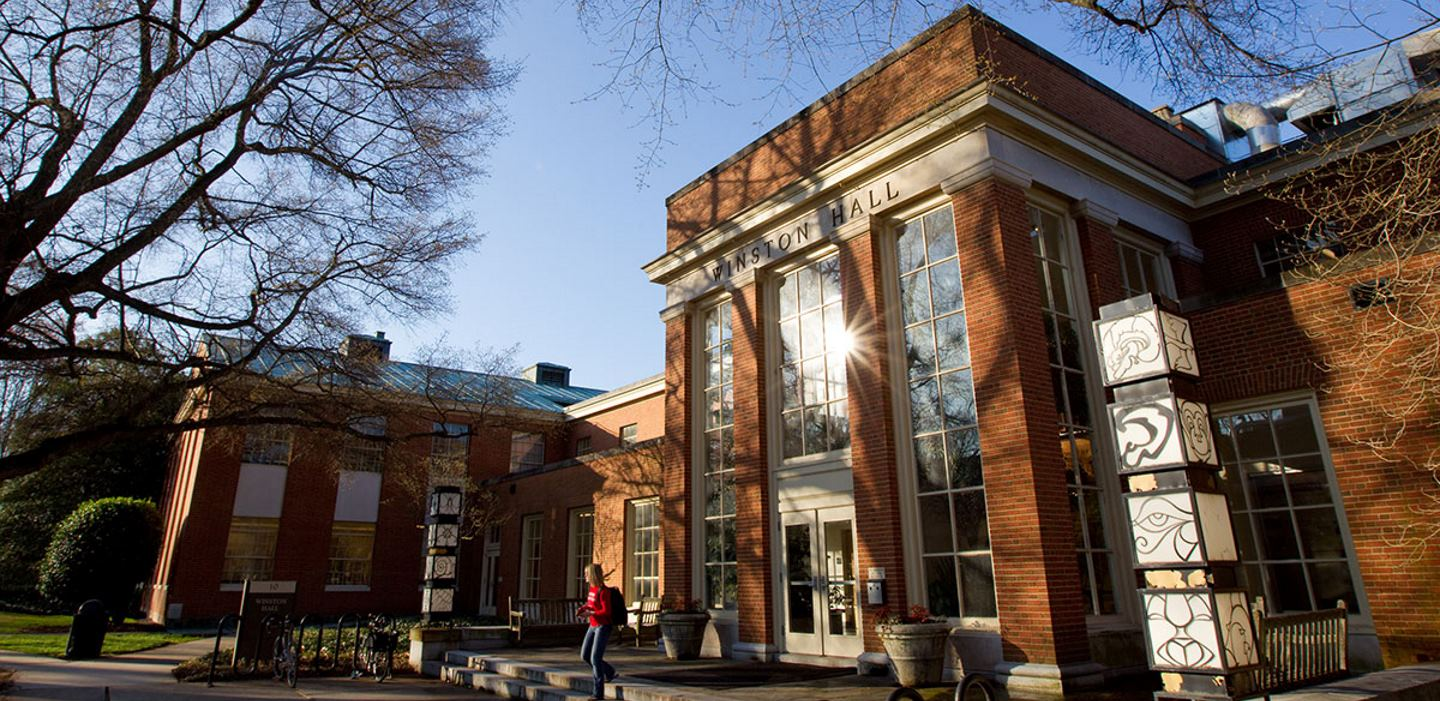
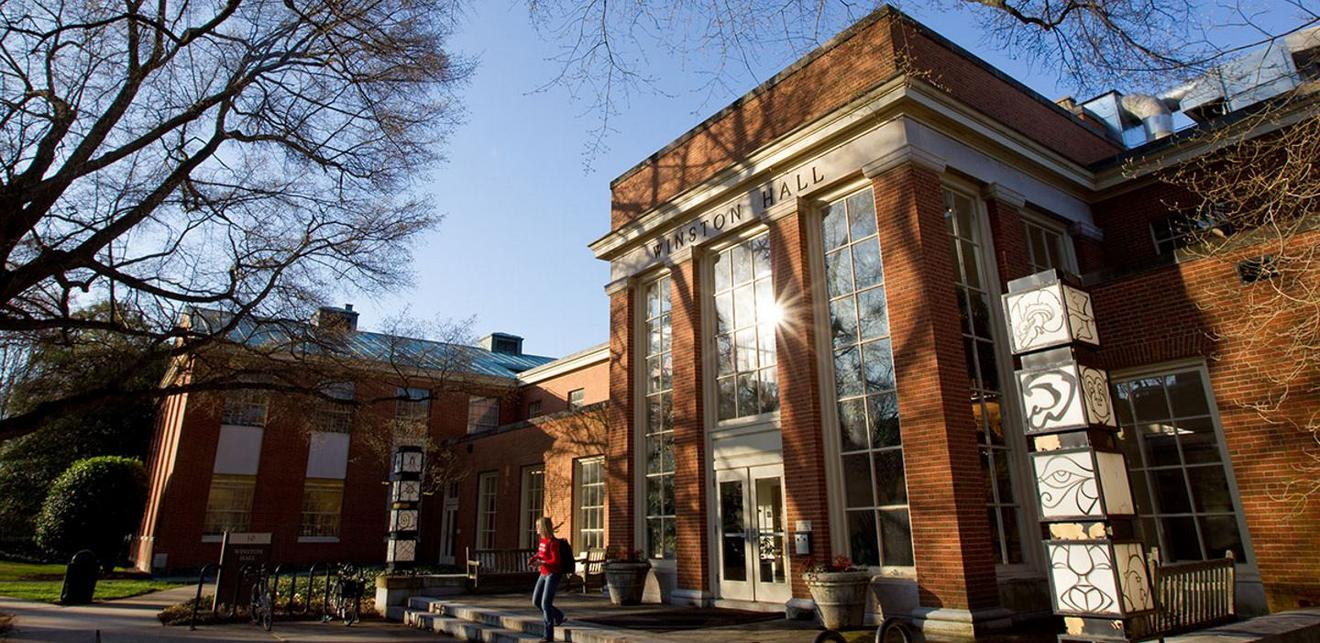
Hub pages: auto TOC, multi-column link lists, lead intro (Phase 3, part 2)
- Generate an 'On this page' table of contents for long/hub pages (>= 5 h2
  sections, or front-matter toc: true/false to override). Headings get unique
  slug ids with scroll-margin so anchor jumps clear the sticky nav.
- Flow flat link lists (>= 4 items, mostly links, no nesting) into responsive
  columns, cutting the height of dense reference pages like the math hub.
- Style the intro paragraph of these pages as a lead.
- Recompress winston_hall_slider.jpg (241 KB -> 185 KB).

Claude-Session: https://claude.ai/code/session_01C8mSpxEjqPfCiLpYRYL2Ma

Changed region(s): [[0.0, 0.1555, 0.0311, 0.2177], [0.0311, 0.1244, 0.0621, 0.1555]]

diff --git a/assets/styles.css b/assets/styles.css
@@ -609,6 +609,64 @@ blockquote p + p {
 	:root:not([data-theme="light"]) .callout-warning { --callout-accent: #d8ab54; }
 }
 
+/* "On this page" table of contents (long/hub pages) */
+h2[id], h3[id] {
+	scroll-margin-top: 84px;
+}
+
+.page-toc {
+	margin: var(--space-6) 0;
+	padding: var(--space-4) var(--space-5);
+	background: var(--color-surface);
+	border: 1px solid var(--color-border);
+	border-radius: var(--radius);
+}
+.page-toc-title {
+	margin: 0 0 var(--space-3);
+	font-size: var(--text-sm);
+	font-weight: 700;
+	text-transform: uppercase;
+	letter-spacing: 0.06em;
+	color: var(--color-muted);
+}
+.page-toc ul {
+	margin: 0;
+	padding: 0;
+	list-style: none;
+	columns: 2;
+	column-gap: var(--space-6);
+}
+.page-toc li {
+	margin: 0 0 var(--space-1);
+	break-inside: avoid;
+}
+.page-toc a {
+	text-decoration: none;
+}
+.page-toc a:hover,
+.page-toc a:focus {
+	text-decoration: underline;
+}
+.page-toc .toc-sub {
+	padding-left: var(--space-4);
+	font-size: 0.95em;
+}
+@media (max-width: 640px) {
+	.page-toc ul { columns: 1; }
+}
+
+/* Flat link lists flow into columns to shorten dense reference pages */
+.col-list {
+	columns: 2;
+	column-gap: var(--space-6);
+}
+.col-list > li {
+	break-inside: avoid;
+}
+@media (max-width: 640px) {
+	.col-list { columns: 1; }
+}
+
 /* 7. Footer ---------------------------------------------------------------- */
 footer {
 	clear: both;

diff --git a/src/main.rs b/src/main.rs
@@ -8,6 +8,7 @@ use rusqlite::{params, Connection};
 #[derive(Debug, serde::Deserialize)]
 struct FrontMatter {
     title: Option<String>,
+    toc: Option<bool>,
 }
 
 #[derive(Debug, serde::Deserialize)]
@@ -266,6 +267,138 @@ fn render_callouts(html: &str) -> String {
     }).into_owned()
 }
 
+/// Drop HTML tags and collapse whitespace, for slugs and TOC labels.
+fn strip_tags(s: &str) -> String {
+    let mut out = String::with_capacity(s.len());
+    let mut in_tag = false;
+    for c in s.chars() {
+        match c {
+            '<' => in_tag = true,
+            '>' => in_tag = false,
+            _ if !in_tag => out.push(c),
+            _ => {}
+        }
+    }
+    out.split_whitespace().collect::<Vec<_>>().join(" ")
+}
+
+/// A URL-safe slug from heading text.
+fn slugify(s: &str) -> String {
+    let text = strip_tags(s)
+        .replace("&amp;", " ")
+        .replace("&lt;", " ")
+        .replace("&gt;", " ")
+        .replace("&quot;", " ")
+        .replace("&#39;", " ");
+    let mut slug = String::new();
+    let mut prev_dash = false;
+    for c in text.chars() {
+        if c.is_ascii_alphanumeric() {
+            slug.push(c.to_ascii_lowercase());
+            prev_dash = false;
+        } else if !slug.is_empty() && !prev_dash {
+            slug.push('-');
+            prev_dash = true;
+        }
+    }
+    slug.trim_matches('-').to_string()
+}
+
+/// Give every h2/h3 a unique id and return the ordered heading list for a TOC.
+fn add_heading_ids(html: &str) -> (String, Vec<(u8, String, String)>) {
+    let re = Regex::new(r"(?is)<h([23])>(.*?)</h[23]>").unwrap();
+    let mut out = String::with_capacity(html.len());
+    let mut last = 0;
+    let mut seen: std::collections::HashMap<String, u32> = std::collections::HashMap::new();
+    let mut headings = Vec::new();
+    for caps in re.captures_iter(html) {
+        let m = caps.get(0).unwrap();
+        let lvl: u8 = caps[1].parse().unwrap_or(2);
+        let inner = &caps[2];
+        let base = {
+            let b = slugify(inner);
+            if b.is_empty() { "section".to_string() } else { b }
+        };
+        let n = seen.entry(base.clone()).or_insert(0);
+        let slug = if *n == 0 { base.clone() } else { format!("{}-{}", base, n) };
+        *n += 1;
+        out.push_str(&html[last..m.start()]);
+        out.push_str(&format!("<h{l} id=\"{s}\">{inner}</h{l}>", l = lvl, s = slug, inner = inner));
+        last = m.end();
+        headings.push((lvl, slug, strip_tags(inner)));
+    }
+    out.push_str(&html[last..]);
+    (out, headings)
+}
+
+/// Build the "On this page" navigation from collected headings.
+fn build_toc(headings: &[(u8, String, String)]) -> String {
+    let mut s = String::from(
+        "<nav class=\"page-toc\" aria-label=\"On this page\">\n<p class=\"page-toc-title\">On this page</p>\n<ul>\n",
+    );
+    for (lvl, slug, text) in headings {
+        let cls = if *lvl == 3 { " class=\"toc-sub\"" } else { "" };
+        // `text` is stripped from already-escaped HTML, so it is safe to emit as-is.
+        s.push_str(&format!(
+            "<li{}><a href=\"#{}\">{}</a></li>\n",
+            cls, slug, text
+        ));
+    }
+    s.push_str("</ul>\n</nav>\n");
+    s
+}
+
+/// Flow flat link lists (>=4 items, mostly links, no nesting) into columns.
+fn columnize_link_lists(html: &str) -> String {
+    let mut out = String::with_capacity(html.len());
+    let mut rest = html;
+    while let Some(pos) = rest.find("<ul>") {
+        out.push_str(&rest[..pos]);
+        let after = &rest[pos..];
+        let b = after.as_bytes();
+        let mut depth = 0i32;
+        let mut idx = 0usize;
+        let mut end = None;
+        while idx < b.len() {
+            if b[idx..].starts_with(b"<ul>") {
+                depth += 1;
+                idx += 4;
+            } else if b[idx..].starts_with(b"</ul>") {
+                depth -= 1;
+                idx += 5;
+                if depth == 0 {
+                    end = Some(idx);
+                    break;
+                }
+            } else {
+                idx += 1;
+            }
+        }
+        match end {
+            Some(e) => {
+                let inner = &after[4..e - 5];
+                let li_count = inner.matches("<li>").count();
+                let link_items = inner.matches("<li><a").count();
+                let nested = inner.contains("<ul");
+                if !nested && li_count >= 4 && link_items * 2 >= li_count {
+                    out.push_str("<ul class=\"col-list\">");
+                    out.push_str(&after[4..e]);
+                } else {
+                    out.push_str(&after[..e]);
+                }
+                rest = &after[e..];
+            }
+            None => {
+                out.push_str(after);
+                rest = "";
+                break;
+            }
+        }
+    }
+    out.push_str(rest);
+    out
+}
+
 fn markdown_to_html(markdown: &str, markdown_files: &std::collections::HashSet<String>) -> String {
     // Pre-process math expressions: render them server-side with KaTeX
     let processed_markdown = preprocess_math(markdown);
@@ -276,7 +409,8 @@ fn markdown_to_html(markdown: &str, markdown_files: &std::collections::HashSet<S
     html::push_html(&mut html_output, parser);
 
     let linked = convert_internal_links(&html_output, markdown_files);
-    render_callouts(&linked)
+    let with_callouts = render_callouts(&linked);
+    columnize_link_lists(&with_callouts)
 }
 
 #[derive(Clone)]
@@ -1426,9 +1560,25 @@ fn main() -> Result<(), Box<dyn std::error::Error>> {
     // Process each markdown file
     for (full_path, relative_path, title) in &markdown_files {
         let content = fs::read_to_string(full_path)?;
-        let (_, markdown_content) = extract_frontmatter(&content);
+        let (frontmatter, markdown_content) = extract_frontmatter(&content);
         let html_content = markdown_to_html(markdown_content, &markdown_file_names);
-        
+
+        // Give headings ids, then add an "On this page" TOC to long/hub pages.
+        // Front-matter `toc:` overrides the automatic threshold (>= 5 sections).
+        let (html_content, headings) = add_heading_ids(&html_content);
+        let toc_default = headings.iter().filter(|(lvl, _, _)| *lvl == 2).count() >= 5;
+        let toc_enabled = frontmatter.and_then(|fm| fm.toc).unwrap_or(toc_default);
+        let html_content = if toc_enabled && !headings.is_empty() {
+            let toc = build_toc(&headings);
+            let with_lead = html_content.replacen("<p>", "<p class=\"lead\">", 1);
+            match with_lead.find("<h2") {
+                Some(pos) => format!("{}{}{}", &with_lead[..pos], toc, &with_lead[pos..]),
+                None => format!("{}{}", toc, with_lead),
+            }
+        } else {
+            html_content
+        };
+
         let rel_key = relative_path.with_extension("")
             .to_string_lossy()
             .replace('\\', "/");
